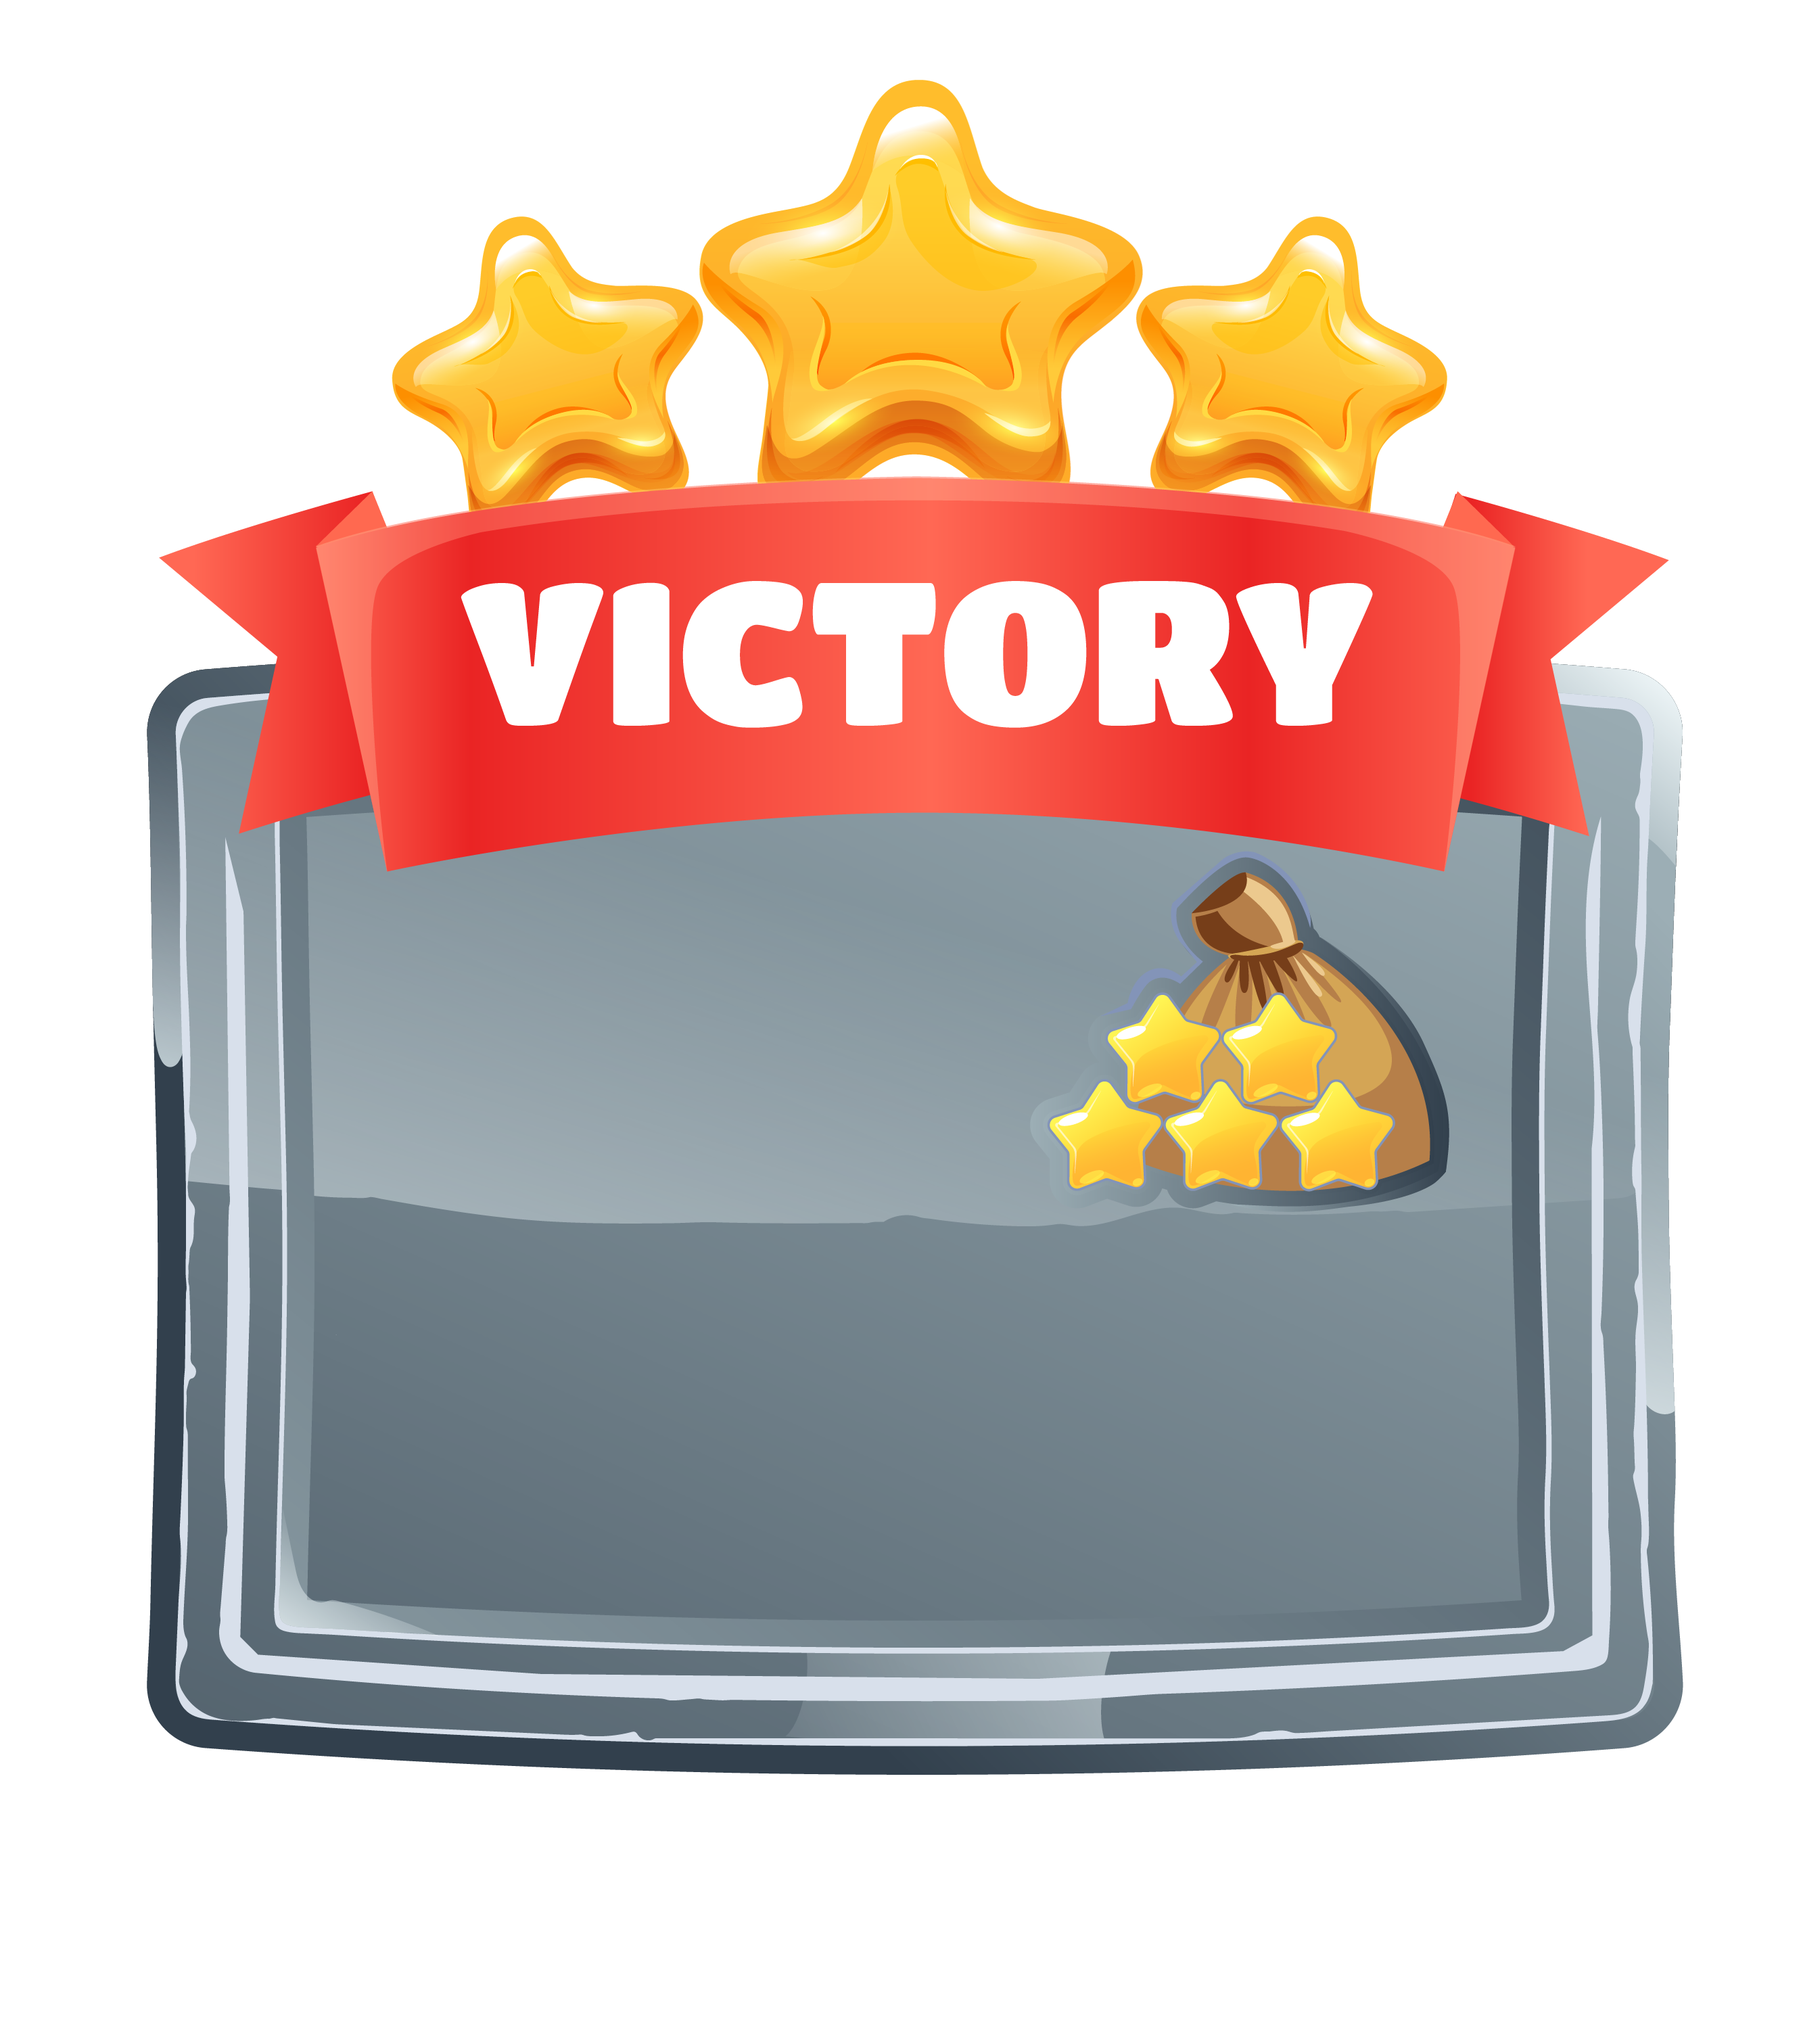
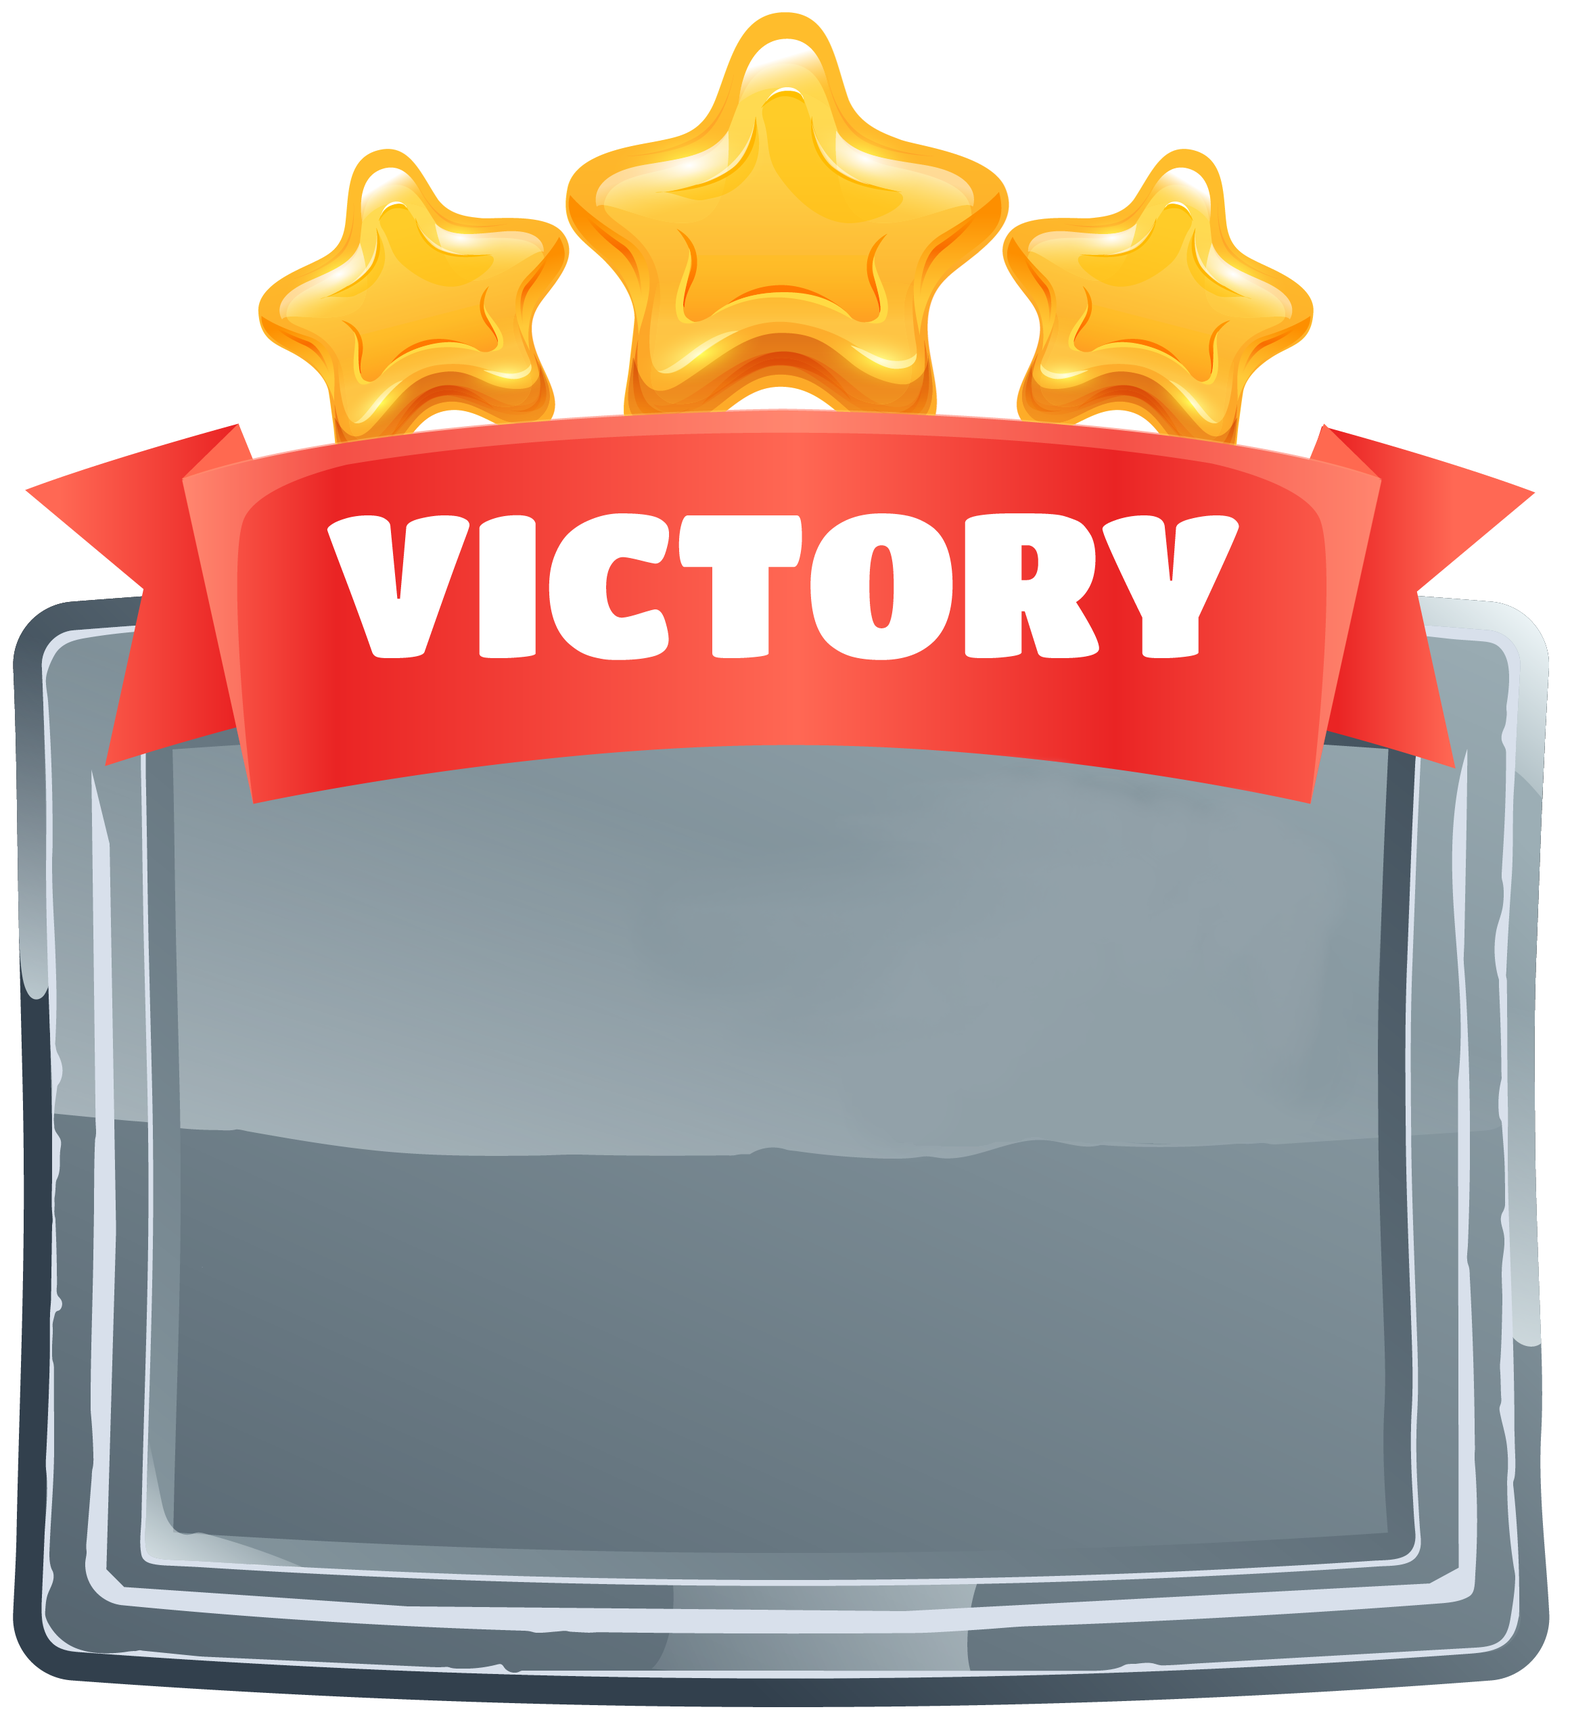
Added Victory Menu UI to the game

diff --git a/css/game.css b/css/game.css
@@ -15,244 +15,72 @@
     }
 }
 
+@font-face {
+    font-family: "Titan One";
+    src: url("/media/fonts/TitanOne-Regular.ttf");
+}
+
 .center {
     margin-right: auto;
     margin-left: auto;
     width: 50%;
 }
 
-
-.gO {
-    visibility: hidden;
-    height: 80%;
-    margin: 0;
-    padding: 0;
-    background-repeat: no-repeat;
-    background-size: cover;
+.menu-container {
+    position: relative;
 }
-  
-.gO img {
+
+.menu-container > img {
+    width: 100%;
+    height: auto;
+}
+
+.hidden-element {
+    display: none;
+}
+
+.absolute-container {
     position: absolute;
-    max-height: 80%;
-    max-width: 80%;
+    top: 0;
+    left: 50%;
+    transform: translate(-50%);
+}
+
+.ui-text {
+    font-family: 'Titan One';
+    font-size: 2vw;
+    color: white;
+    text-shadow: 3px 2px 0px #353535;
+}
+
+.menu-items {
+    position: absolute;
+    width: 100%;
+    top: 48%;
+}
+
+.menu-items button {
+    background: none;
+    border: none;
+    width: 40%;
+    height: auto;
+}
+
+.menu-items a {
     display: block;
-    top: 50%;
-    left: 50%;
-    transform: translate(-50%, -50%);
+    width: 40%;
+    height: auto;
 }
 
-.gO #btnExit {
-    position: absolute;
-    top: 65%;
-    left: 50%;
-    transform: translate(-50%, -50%);
-    background-color: transparent;
-    color: transparent;
-    font-size: 16px;
-    padding: 12px 24px;
-    border: none;
-    cursor: pointer;
-    margin-bottom: 2px;
-    border-radius: 5px;
-    width: 150px;
-
-    min-width: 10%;
-    min-height: 8%;
-
-    max-height: 8%;
-    max-width: 10%;
-} 
-
-.gO #btnPA {
-    position: absolute;
-    top: 57%;
-    left: 49.8%;
-    transform: translate(-50%, -50%);
-    background-color: transparent;
-    color: transparent;
-    font-size: 16px;
-    padding: 12px 24px;
-    border: none;
-    cursor: pointer;
-    margin-bottom: 2px;
-    border-radius: 5px;
-    width: 150px;
-
-    min-width: 10%;
-    min-height: 8%;
-
-    max-height: 8%;
-    max-width: 10%;
-} 
-
-.gO #btnExit:hover, #btnPA:hover{
-    min-width: 11%;
-    min-height: 9%;
+.menu-items button > img, .menu-items a > img{
+    width: 100%;
+    height: auto;
 }
 
-.win {
-    visibility: hidden;
-    height: 80%;
-    margin: 0;
-    padding: 0;
-    background-repeat: no-repeat;
-    background-size: cover;
-}
-  
-.win img {
-    position: absolute;
-    max-height: 80%;
-    max-width: 80%;
-    display: block;
-    top: 50%;
-    left: 50%;
-    transform: translate(-50%, -50%);
+.ui-btn:hover {
+    transform: scale(1.05);
 }
 
-.win #btnShare {
-    position: absolute;
-    top: 65%;
-    left: 50%;
-    transform: translate(-50%, -50%);
-    background-color: transparent;
-    color: transparent;
-    font-size: 16px;
-    padding: 12px 24px;
-    border: none;
-    cursor: pointer;
-    margin-bottom: 2px;
-    border-radius: 5px;
-    width: 150px;
-
-    min-width: 14%;
-
-    max-height: 14%;
-    max-width: 14%;
-} 
-
-.pausa {
-    visibility: hidden;
-    height: 80%;
-    margin: 0;
-    padding: 0;
-    background-repeat: no-repeat;
-    background-size: cover;
-}
-  
-.pausa img {
-    position: absolute;
-    max-height: 80%;
-    max-width: 80%;
-    display: block;
-    top: 50%;
-    left: 50%;
-    transform: translate(-50%, -50%);
-}
-
-
-.pausa #btnResume {
-    position: absolute;
-    top: 33.5%;
-    left: 50%;
-    transform: translate(-50%, -50%);
-    background-color: transparent;
-    color: transparent;
-    font-size: 16px;
-    padding: 12px 24px;
-    border: none;
-    cursor: pointer;
-    margin-bottom: 2px;
-    border-radius: 5px;
-    width: 150px;
-
-    min-width: 11%;
-
-    max-height: 11%;
-    max-width: 11%;
-} 
-
-.pausa #btnRestart {
-    position: absolute;
-    top: 41.5%;
-    left: 50%;
-    transform: translate(-50%, -50%);
-    background-color: transparent;
-    color: transparent;
-    font-size: 16px;
-    padding: 12px 24px;
-    border: none;
-    cursor: pointer;
-    margin-bottom: 2px;
-    border-radius: 5px;
-    width: 150px;
-
-    min-width: 11%;
-
-    max-height: 11%;
-    max-width: 11%;
-} 
-
-.pausa #btnOptions {
-    position: absolute;
-    top: 50%;
-    left: 50%;
-    transform: translate(-50%, -50%);
-    background-color: transparent;
-    color: transparent;
-    font-size: 16px;
-    padding: 12px 24px;
-    border: none;
-    cursor: pointer;
-    margin-bottom: 2px;
-    border-radius: 5px;
-    width: 150px;
-
-    min-width: 11%;
-    max-height: 11%;
-    max-width: 11%;
-} 
-
-.pausa #btnHelp {
-    position: absolute;
-    top: 57.5%;
-    left: 50%;
-    transform: translate(-50%, -50%);
-    background-color: transparent;
-    color: transparent;
-    font-size: 16px;
-    padding: 12px 24px;
-    border: none;
-    cursor: pointer;
-    margin-bottom: 2px;
-    border-radius: 5px;
-    width: 150px;
-
-    min-width: 11%;
-    max-height: 11%;
-    max-width: 11%;
-} 
-
-
-.pausa #btnExit {
-    position: absolute;
-    top: 65.5%;
-    left: 50%;
-    transform: translate(-50%, -50%);
-
-    padding: 12px 24px;
-    border: none;
-    cursor: pointer;
-    margin-bottom: 2px;
-    border-radius: 5px;
-    width: 150px;
-
-    min-width: 11%;
-
-    max-height: 11%;
-    max-width: 11%;
-} 
-
-.pausa #btnResume:hover, #btnRestart:hover, #btnOptions:hover, #btnHelp:hover, #btnExit:hover{
-    min-width: 12%;
-    min-height: 12%;
+.ui-btn:active {
+    transform: scale(1);
 }

diff --git a/pages/game.html b/pages/game.html
@@ -10,6 +10,8 @@
 		}
 	</style>
 
+	<link href="https://cdn.jsdelivr.net/npm/bootstrap@5.1.3/dist/css/bootstrap.min.css" rel="stylesheet"
+		integrity="sha384-1BmE4kWBq78iYhFldvKuhfTAU6auU8tT94WrHftjDbrCEXSU1oBoqyl2QvZ6jIW3" crossorigin="anonymous">
 	<link rel="stylesheet" href="../css/game.css">
 
 	<script type="text/javascript" src="../js/pages/facebook.js"></script>
@@ -34,31 +36,30 @@
 <script type="module" src="/js/pages/game.js"></script>
 
 <body>
-	<p style="display: none;" class="userIdClassP" value="500"></p>
 	<div class="center">
 		<img id="loader" class="loader" alt="loading" src="/media/images/icon.png">
 	</div>
 	<div id="scene-section"></div>
 
-	<div id="winMenu" class="win">
-		<img src="/media/images/victory/GAME UI-04.png" alt="Italian Trulli">
-		<img src="/media/images/victory/GAME UI-49.png" alt="Italian Trulli" id="btnShare" onclick="shareFB();">
-	</div>
-
-	<div id="gameOverMenu" class="gO">
-		<img src="/media/images/game_over/GAME UI-07.png" alt="Italian Trulli">
-		<img src="/media/images/game_over/GAME UI-54.png" alt="Italian Trulli" id="btnPA">
-		<a href="/index.html"><img src="/media/images/game_over/GAME UI-55.png" alt="Italian Trulli" id="btnExit"></a>
-	</div>
-
-	<div id="pauseMenu" class="pausa">
-		<img src="/media/images/pausa/GAME UI-02.png" alt="Italian Trulli">
-		<img src="/media/images/pausa/GAME UI-38.png" alt="Italian Trulli" id="btnResume">
-		<!--<a href="scoreboards.html"><button id="btn2">Button2</button></a>-->
-		<img src="/media/images/pausa/GAME UI-39.png" alt="Italian Trulli" id="btnRestart">
-		<img src="/media/images/pausa/GAME UI-40.png" alt="Italian Trulli" id="btnOptions">
-		<img src="/media/images/pausa/GAME UI-41.png" alt="Italian Trulli" id="btnHelp">
-		<a href="/index.html"><img src="/media/images/pausa/GAME UI-42.png" alt="Italian Trulli" id="btnExit"></a>
+	<div id="victory-menu" class="container absolute-container hidden-element">
+		<div class="row">
+			<div class="col-4 mx-auto mt-4">
+				<div class="menu-container">
+					<img src="/media/images/victory/GAME UI-04.png" alt="menu">
+					<div class="menu-items">
+						<div id="victory-message" class="ui-text text-center mb-2">
+							Player 0 Wins!
+						</div>
+						<a href="" class="ui-btn mx-auto">
+							<img src="/media/images/victory/GAME UI-54.png" alt="Play Again">
+						</a>
+						<a href="/index.html" class="ui-btn mx-auto">
+							<img src="/media/images/victory/GAME UI-55.png" alt="Exit">
+						</a>
+					</div>
+				</div>
+			</div>
+		</div>
 	</div>
 </body>
 
